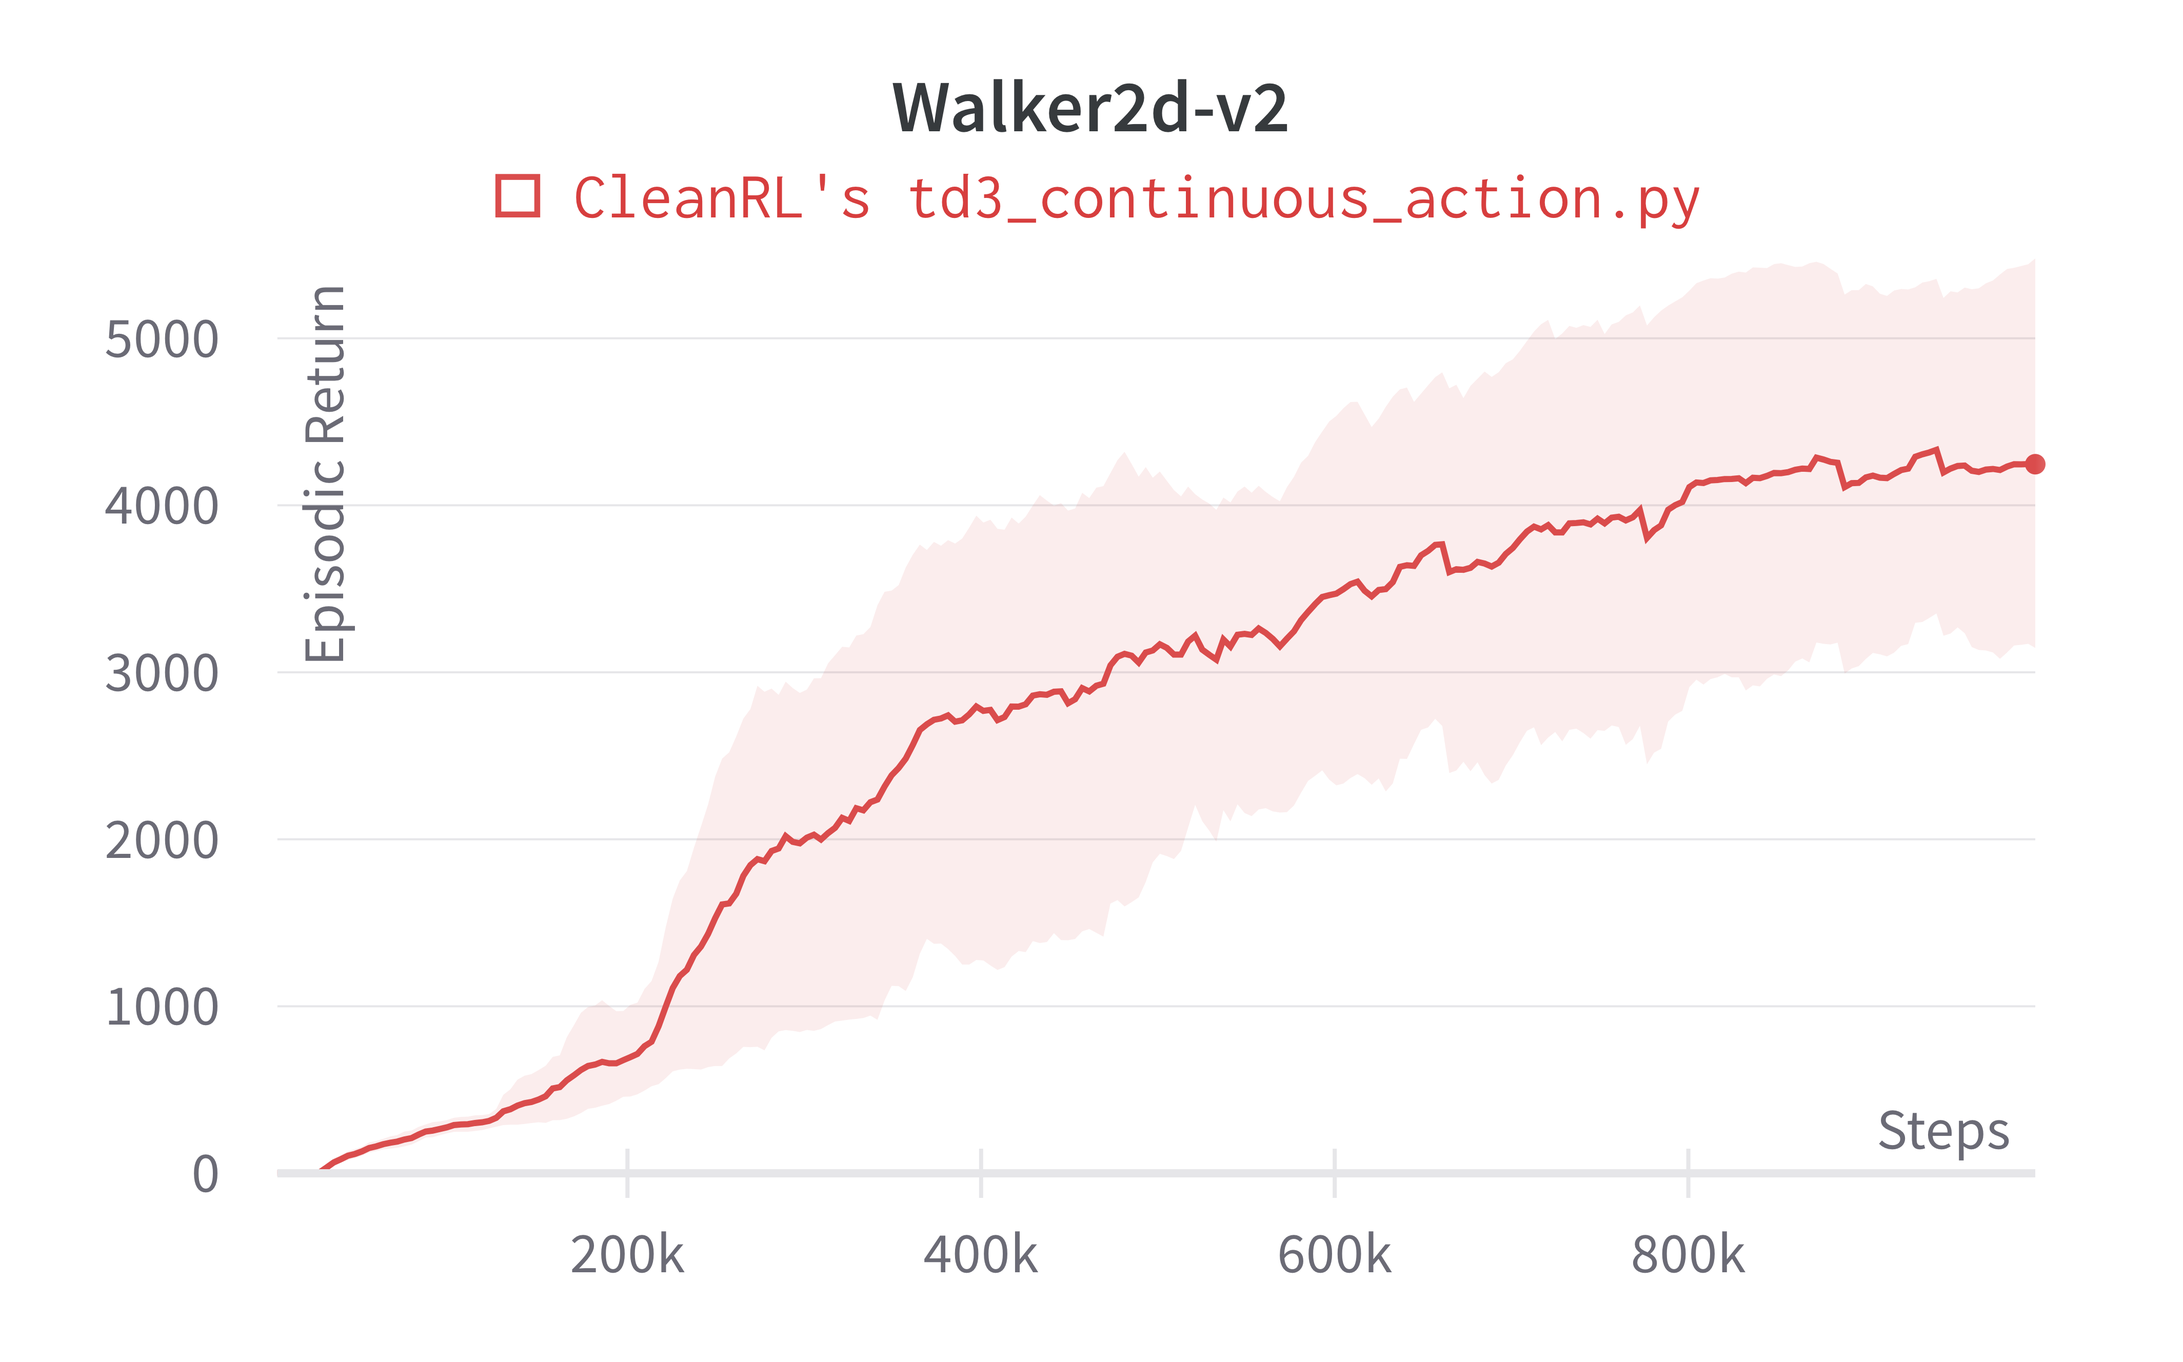
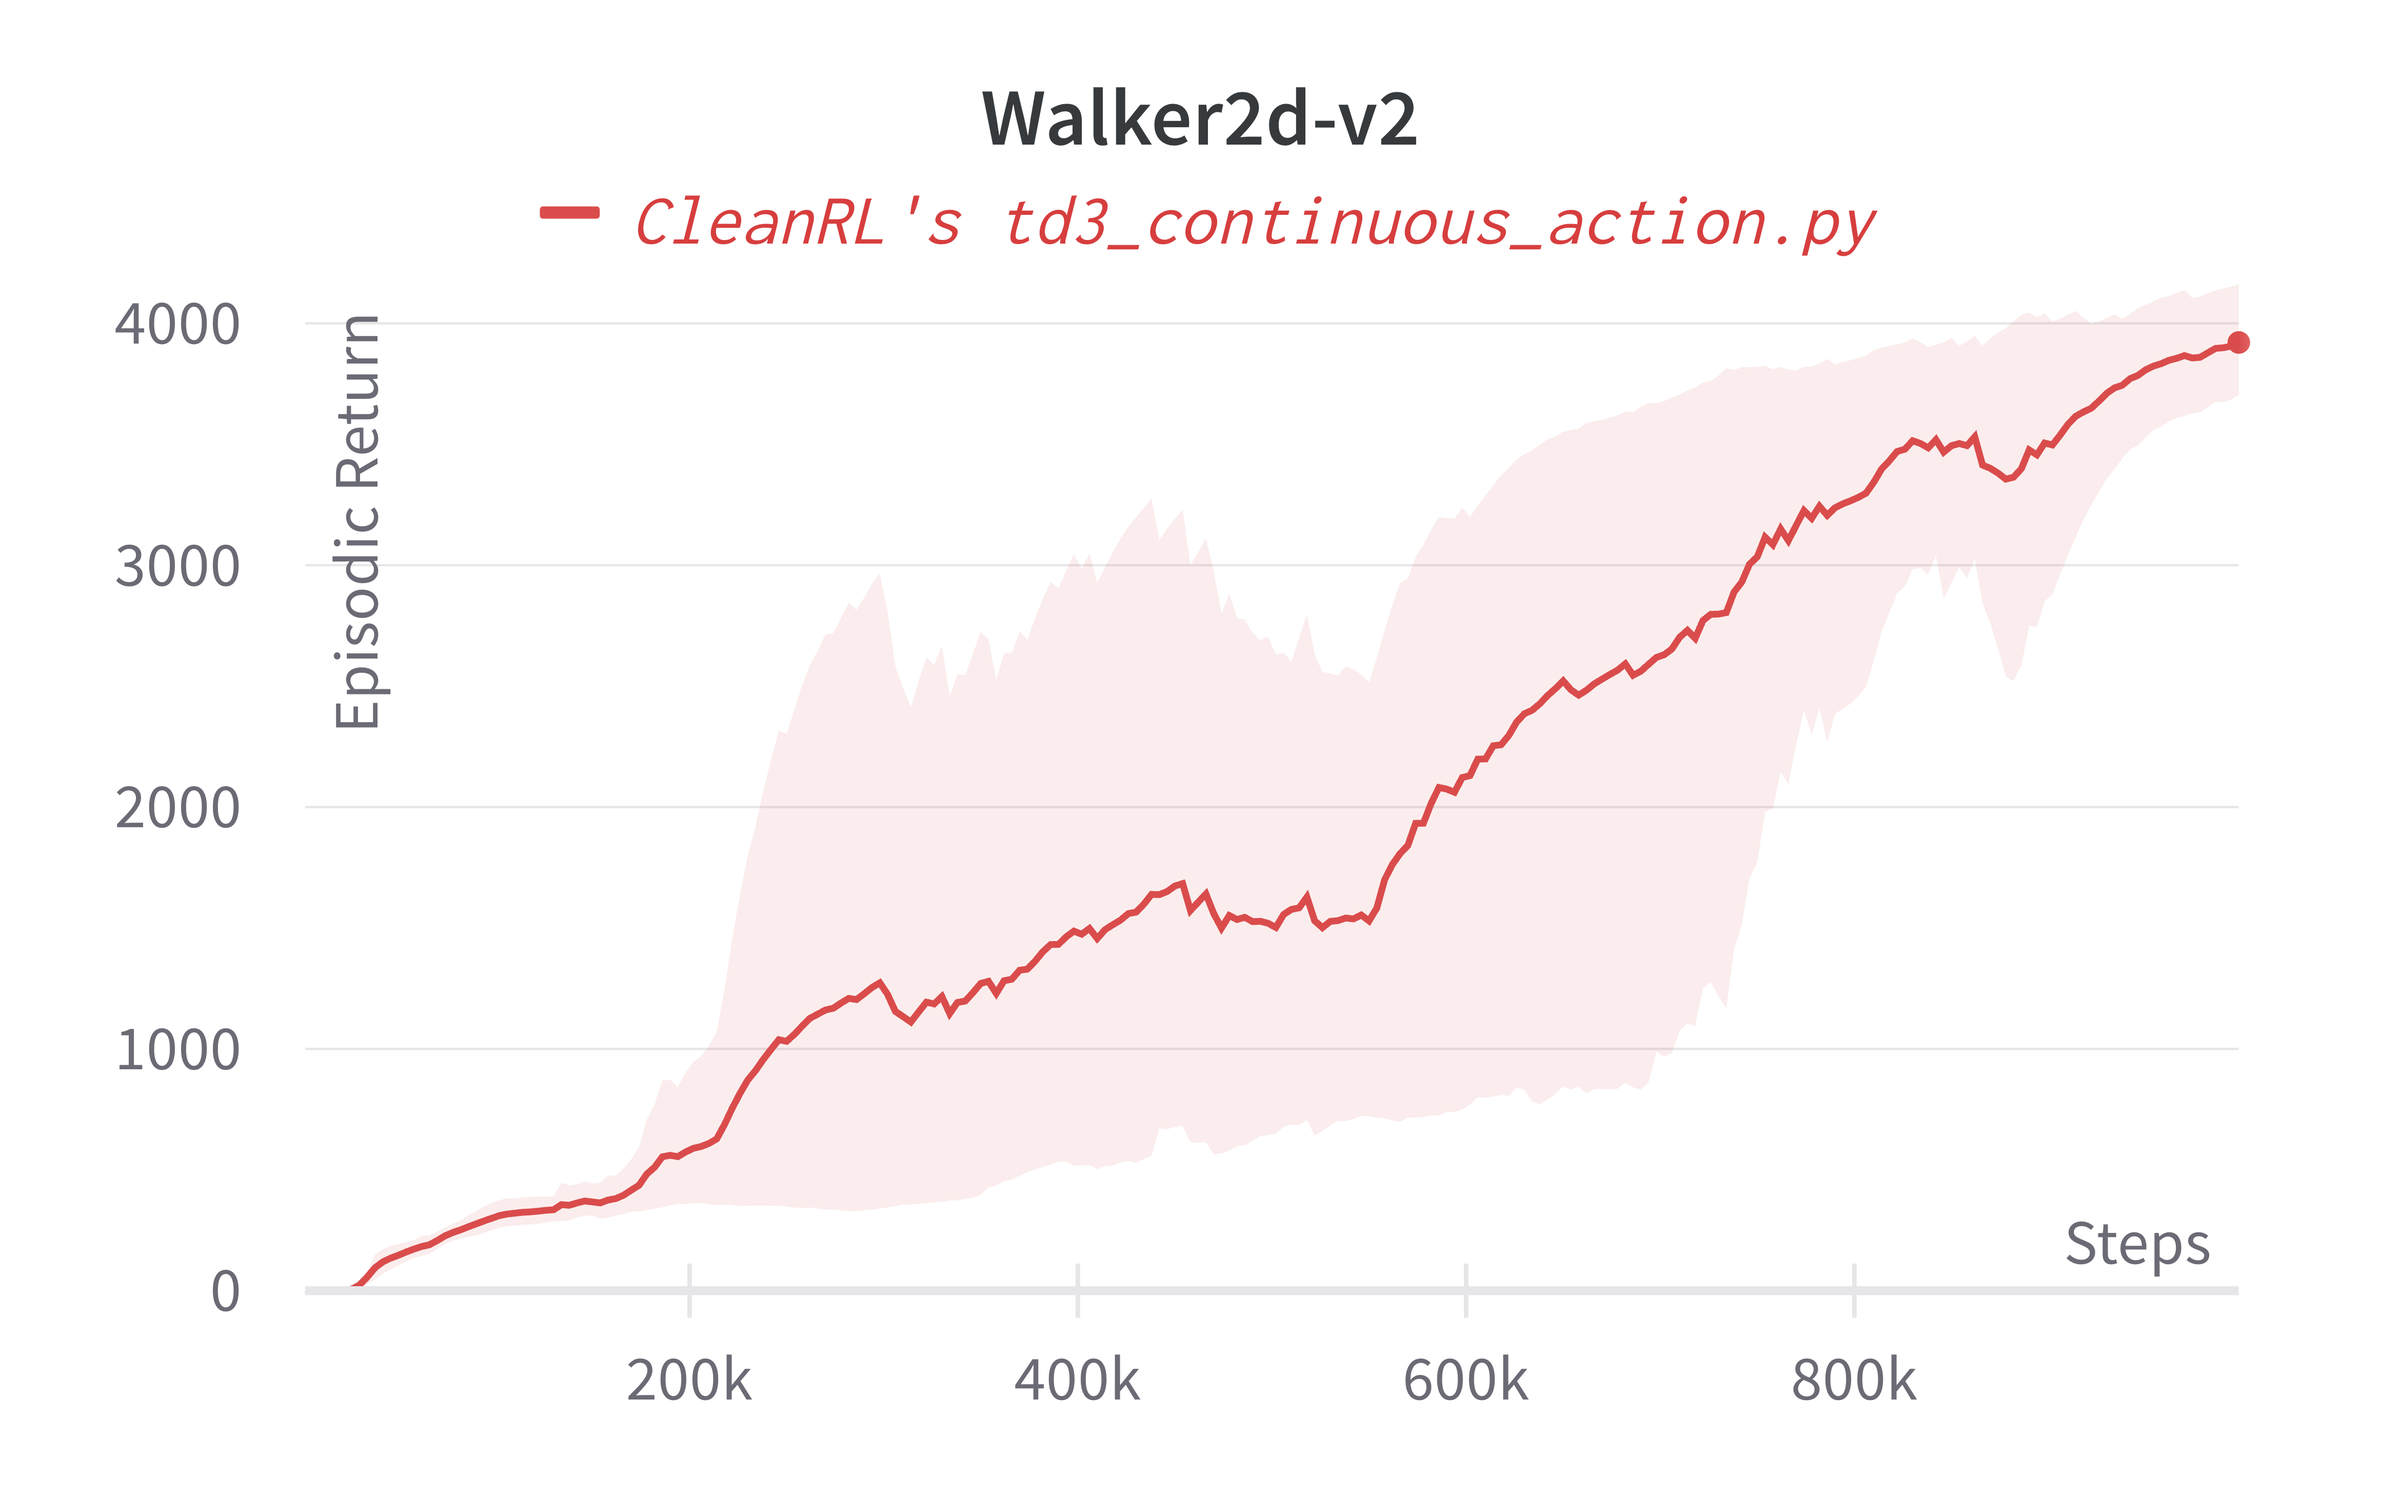
TD3: fixed dimension of clipped_noise for target actions, added noise … (#281)
* TD3: fixed dimension of clippednoise for target actions, added noise scaling based on action_scale

* minor refactor

* update benchmark script

* update results

diff --git a/cleanrl/td3_continuous_action.py b/cleanrl/td3_continuous_action.py
@@ -206,11 +206,11 @@ if __name__ == "__main__":
         if global_step > args.learning_starts:
             data = rb.sample(args.batch_size)
             with torch.no_grad():
-                clipped_noise = (torch.randn_like(torch.Tensor(actions[0])) * args.policy_noise).clamp(
+                clipped_noise = (torch.randn_like(data.actions, device=device) * args.policy_noise).clamp(
                     -args.noise_clip, args.noise_clip
-                )
+                ) * target_actor.action_scale
 
-                next_state_actions = (target_actor(data.next_observations) + clipped_noise.to(device)).clamp(
+                next_state_actions = (target_actor(data.next_observations) + clipped_noise).clamp(
                     envs.single_action_space.low[0], envs.single_action_space.high[0]
                 )
                 qf1_next_target = qf1_target(data.next_observations, next_state_actions)

diff --git a/docs/rl-algorithms/td3.md b/docs/rl-algorithms/td3.md
@@ -123,12 +123,12 @@ Below are the average episodic returns for [`td3_continuous_action.py`](https://
 
 | Environment      | [`td3_continuous_action.py`](https://github.com/vwxyzjn/cleanrl/blob/master/cleanrl/td3_continuous_action.py) | [`TD3.py`](https://github.com/sfujim/TD3/blob/master/TD3.py) (Fujimoto et al., 2018, Table 1)[^2]  |
 | ----------- | ----------- | ----------- | 
-| HalfCheetah      | 9018.31 ± 1078.31      |9636.95 ± 859.065  |
-| Walker2d   | 4246.07 ± 1210.84     |  4682.82 ± 539.64 | 
-| Hopper   | 3391.78 ± 232.21        |  3564.07 ± 114.74 | 
-| Humanoid |  4822.64 ± 321.85      |  not available | 
-| Pusher |  -42.24 ± 6.74      |  not available | 
-| InvertedPendulum |    964.59 ± 43.91    | 1000.00 ± 0.00  | 
+| HalfCheetah      | 9449.94 ± 1586.49      |9636.95 ± 859.065  |
+| Walker2d   | 3851.55 ± 335.29     |  4682.82 ± 539.64 | 
+| Hopper   | 3162.21 ± 261.08        |  3564.07 ± 114.74 | 
+| Humanoid |  5011.05 ± 254.89      |  not available | 
+| Pusher |  -37.49 ± 10.22      |  not available | 
+| InvertedPendulum |    996.81 ± 4.50    | 1000.00 ± 0.00  | 
 
 
 
